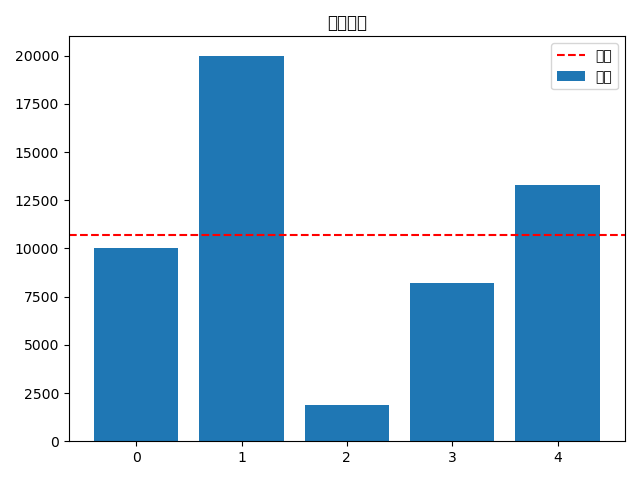
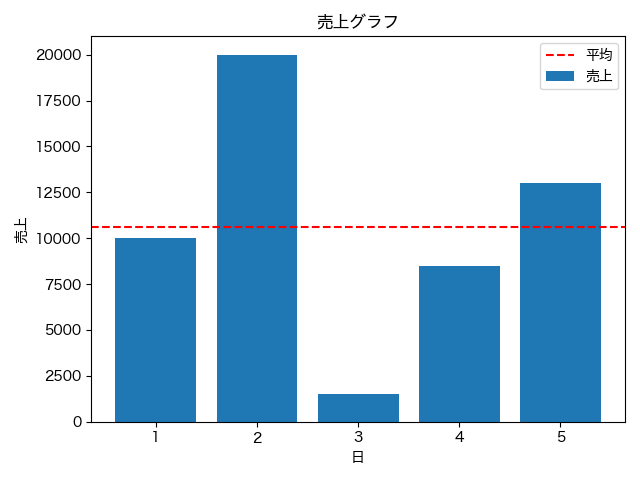
Add pandas CSV集計とグラフ描画

diff --git a/sales_total.py b/sales_total.py
@@ -2,25 +2,45 @@ import matplotlib
 matplotlib.use("MacOSX")  # Mac用
 import matplotlib.pyplot as plt
 
-# sales_data.txt を読み込む
-sales_input = []
-with open("sales_data.txt", encoding="utf-8") as f:
-    for line in f:
-        s = line.strip().replace(",", "")
-        if s.isdigit():  # 数字だけなら追加
-            sales_input.append(int(s))
+# # sales_data.txt を読み込む
+# #sales_input = []
+# with open("sales_data.txt", encoding="utf-8") as f:
+#     for line in f:
+#         s = line.strip().replace(",", "")
+#         if s.isdigit():  # 数字だけなら追加
+#             sales_input.append(int(s))
 
-# 平均計算
-avg_input = sum(sales_input) / len(sales_input)
+# # 平均計算
+# avg_input = sum(sales_input) / len(sales_input)
 
-# グラフ作成
-plt.bar(range(len(sales_input)), sales_input, label="売上")
-plt.axhline(y=avg_input, color="red", linestyle="--", label="平均")
-plt.title("売上一覧")
-plt.legend()
-plt.tight_layout()
-plt.savefig("sales_chart.png")  # ← PNGで保存
-print("✅ sales_chart.png を保存しました")
+# # グラフ作成
+# plt.bar(range(len(sales_input)), sales_input, label="売上")
+# plt.axhline(y=avg_input, color="red", linestyle="--", label="平均")
+# plt.title("売上一覧")
+# plt.legend()
+# plt.tight_layout()
+# plt.savefig("sales_chart.png")  # ← PNGで保存
+# print("✅ sales_chart.png を保存しました")
 
 plt.rcParams["font.family"] = "Hiragino Sans"
 plt.rcParams["axes.unicode_minus"] = False
+import pandas as pd
+
+# CSVを読み込む
+df = pd.read_csv("sales_data.csv")
+
+print(df)
+print("合計:", df["sales"].sum())
+print("平均:", df["sales"].mean())
+# グラフ描画
+import matplotlib.pyplot as plt
+
+plt.bar(df["day"], df["sales"], label="売上")
+plt.axhline(df["sales"].mean(), color="red", linestyle="--", label="平均")
+plt.xlabel("日")
+plt.ylabel("売上")
+plt.title("売上グラフ")
+plt.legend()
+plt.tight_layout()
+plt.savefig("sales_chart.png")  # PNGで保存
+plt.show()
